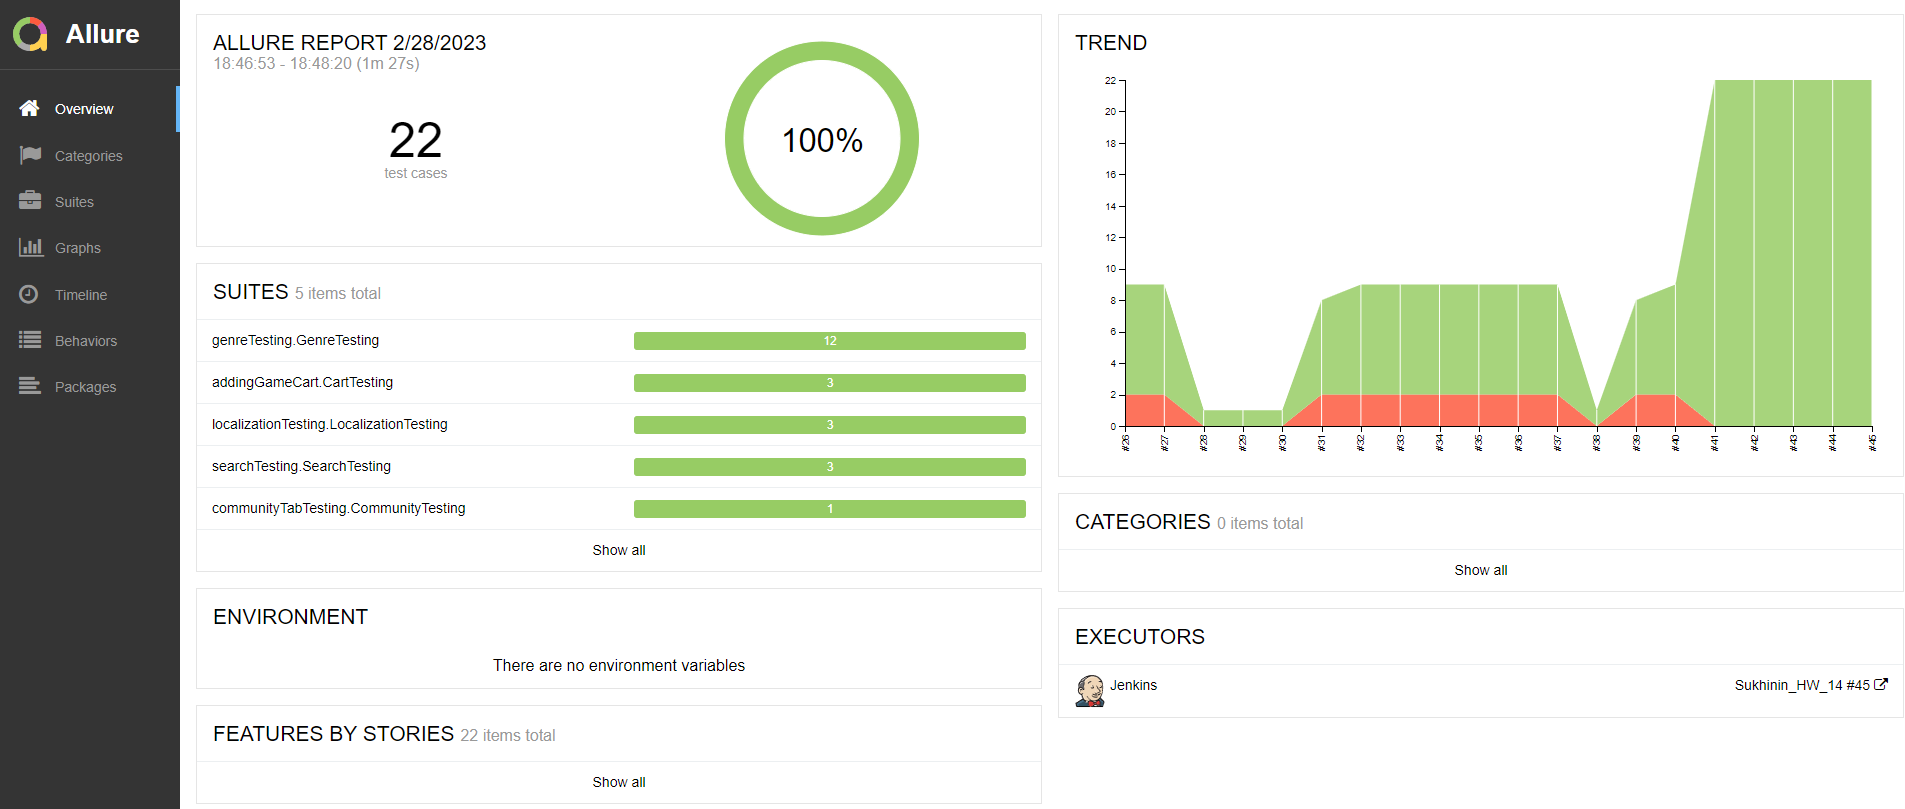
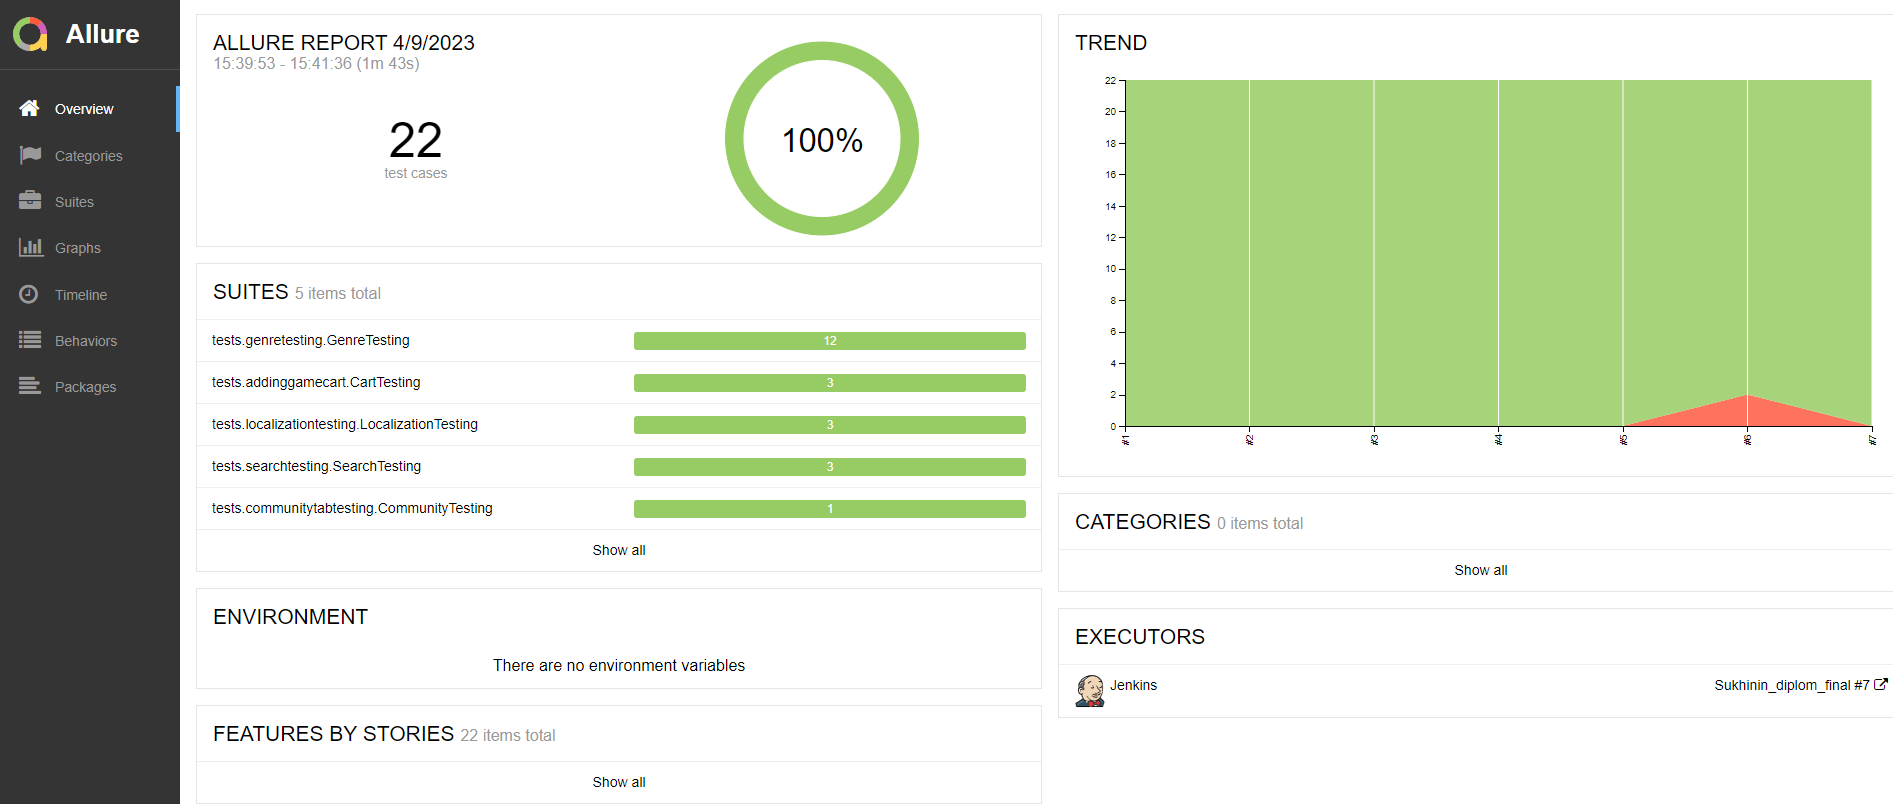
add read.me

diff --git a/README.md b/README.md
@@ -53,10 +53,10 @@ gradle clean test -Denv=remote
 <a id="jenkins"></a>
 ## <img src="images/logo/jenkins.png" width="25" height="25"/></a> Запуск тестов в Jenkins
 
-<a target="_blank" href="https://jenkins.autotests.cloud/job/Sukhinin_HW_14/#">Сборка в Jenkins</a>
+<a target="_blank" href="https://jenkins.autotests.cloud/job/Sukhinin_diplom_final/#">Сборка в Jenkins</a>
 <p align="center">
 
-<a href="https://jenkins.autotests.cloud/job/Sukhinin_HW_14/#"><img src="images/screenshots/sborkaJenkins.png" alt="Jenkins"/></a>
+<a href="https://jenkins.autotests.cloud/job/Sukhinin_diplom_final/#"><img src="images/screenshots/sborkaJenkins.png" alt="Jenkins"/></a>
 </p>
 
 <a id="allure"></a>
